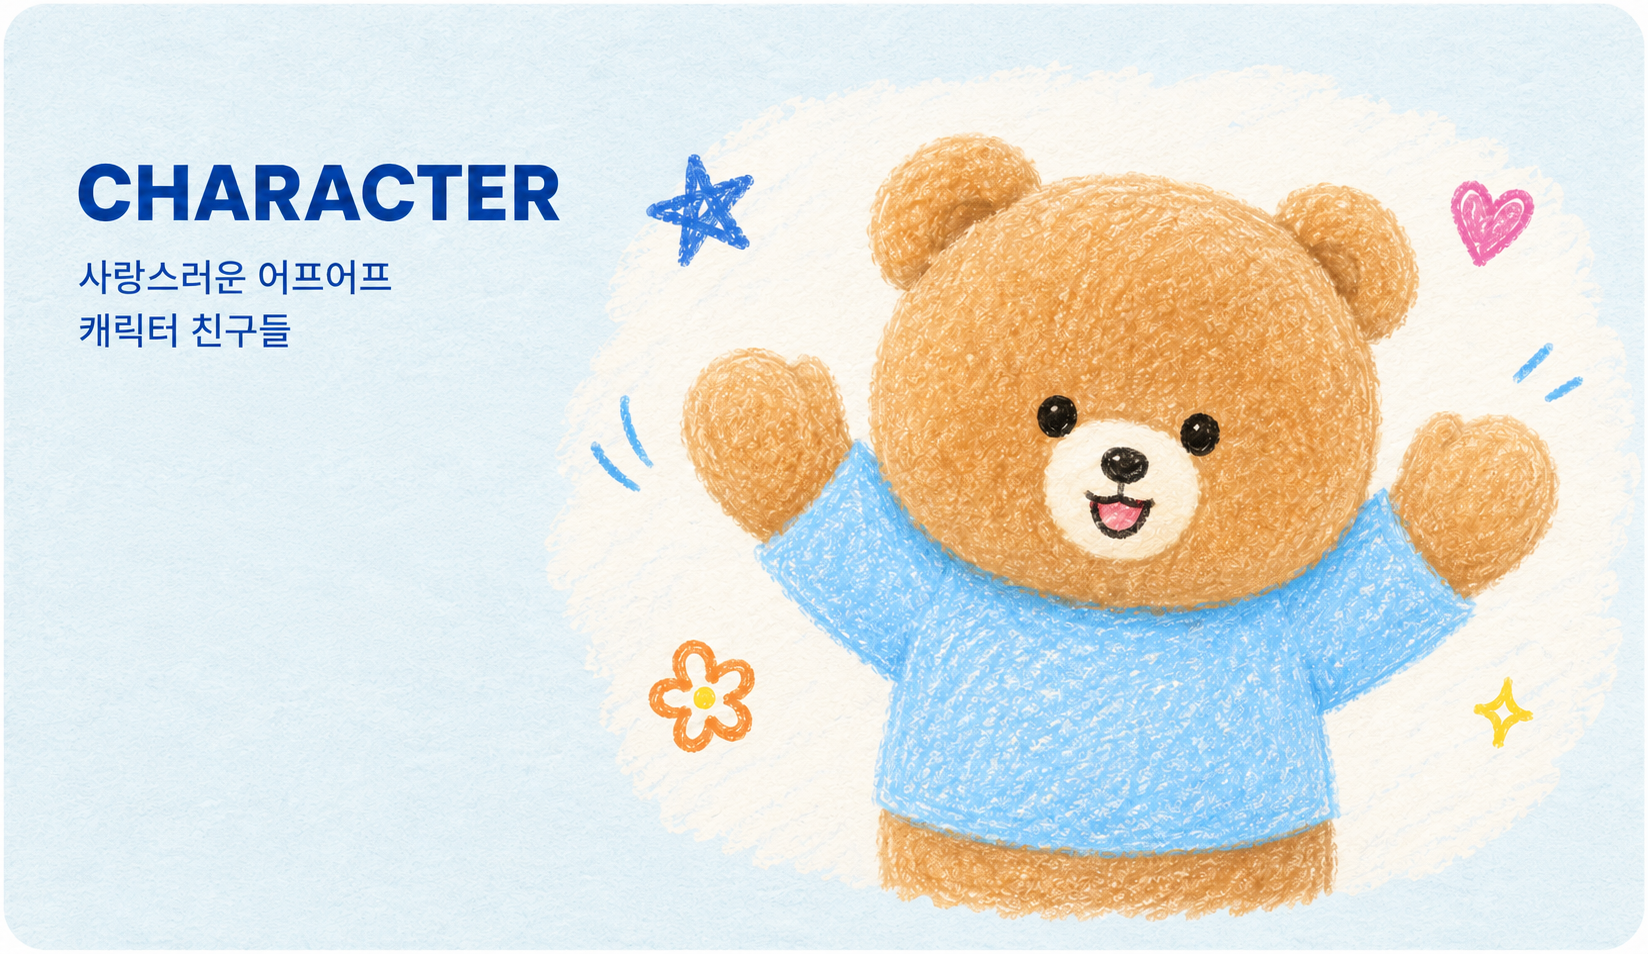
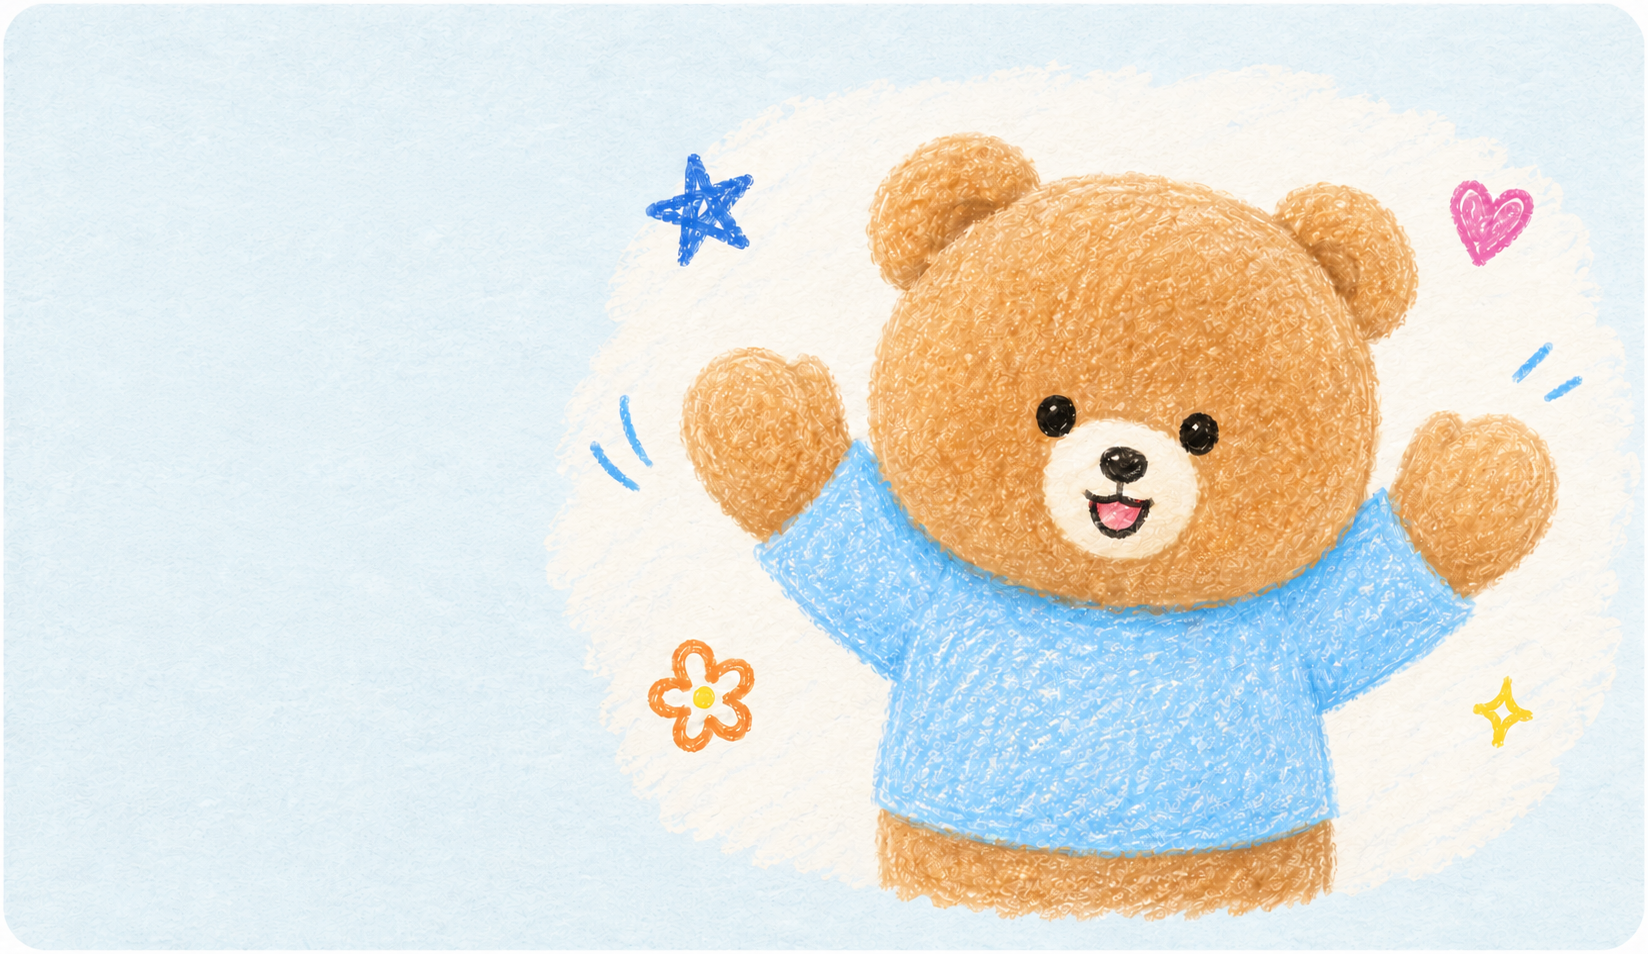
20260824 수정본

diff --git a/css/main.css b/css/main.css
@@ -802,6 +802,30 @@ header .header_i nav .menu .submenu li a:hover {
    gap: 34px;
 }
 
+.collection .collection_b .collection_text{
+   position: absolute;
+   left: 35px;
+   top: 45px;
+   z-index: 2;
+}
+
+.collection .collection_b .collection_text h3{
+   font-size: 38px;
+   font-family: "Pretendard_eb";
+   color: #0040c1;
+   line-height: 120%;
+   margin-bottom: 9px;
+   letter-spacing: -0.5px;
+}
+
+.collection .collection_b .collection_text p{
+   font-size: 18px;
+   font-family: "Pretendard_sb";
+   color: #0040c1;
+   line-height: 140%;
+}
+
+
 .collection .l_collection,
 .collection .r_collection {
    position: relative;
@@ -810,7 +834,7 @@ header .header_i nav .menu .submenu li a:hover {
    overflow: hidden;
    border-radius: 20px;
    background-repeat: no-repeat;
-   background-position: left;
+   background-position: center;
    background-size: cover;
 }
 
@@ -828,12 +852,12 @@ header .header_i nav .menu .submenu li a:hover {
    bottom: 40px;
    display: inline-flex;
    align-items: center;
-   padding: 16px 28px;
+   padding: 20px 32px;
    border-radius: 50px;
    color: #fff;
    background-color: #0040c1;
    font-family: "Pretendard_b";
-   font-size: 15px;
+   font-size: 20px;
    gap: 10px;
 }
 
@@ -867,7 +891,7 @@ header .header_i nav .menu .submenu li a:hover {
    background-position: center;
    background-size: cover;
    background-image: url(../image/brand_story.png);
-   border-radius: 15px;
+   border-radius: 20px;
 }
 
 .brand_story .brand_story_i .brand_img .plus_btn {
@@ -1063,6 +1087,19 @@ footer {
       flex-direction: column;
       height: auto;
       gap: 20px;
+   }
+
+   .collection .collection_b .collection_text{
+      left: 30px;
+      top: 30px;
+   }
+
+   .collection .collection_b .collection_text h3{
+      font-size: 26px;
+   }
+
+   .collection .collection_b .collection_text p{
+      font-size: 16px;
    }
 
    .collection .l_collection,
@@ -1328,6 +1365,20 @@ footer {
 
    .collection .collection_b {
       gap: 16px;
+   }
+
+   .collection .collection_b .collection_text{
+      left: 20px;
+      top: 20px;
+   }
+
+   .collection .collection_b .collection_text h3{
+      font-size: 22px;
+      margin-bottom: 6px;
+   }
+
+   .collection .collection_b .collection_text p{
+      font-size: 13px;
    }
 
    .collection .l_collection,

diff --git a/index.html b/index.html
@@ -745,6 +745,10 @@
             <div class="collection_b">
                <!-- left -->
                <a href="#" class="l_collection" aria-label="캐릭터 컬렉션 보기">
+                  <div class="collection_text">
+                     <h3>CHARACTER</h3>
+                     <p>사랑스러운 어프어프 <br>캐릭터 친구들</p>
+                  </div>
                   <span class="shopnow_btn">
                      SHOP NOW
                      <span>
@@ -755,6 +759,10 @@
 
                <!-- right -->
                <a href="#" class="r_collection" aria-label="패턴 컬렉션 보기">
+                  <div class="collection_text">
+                     <h3>PATTERN</h3>
+                     <p>유니크하고 감각적인 <br>패턴 디자인</p>
+                  </div>
                   <span class="shopnow_btn">
                      SHOP NOW
                      <span>

diff --git a/css/shop.css b/css/shop.css
@@ -496,7 +496,7 @@ header .header_i nav .menu .submenu li a:hover {
 .product_grid {
     display: grid;
     grid-template-columns: repeat(4, 1fr);
-    gap: clamp(24px, 3vw, 48px) clamp(16px, 2vw, 32px);
+    gap: clamp(28px, 3vw, 52px) clamp(20px, 2vw, 36px);
 }
 
 .product_card {
